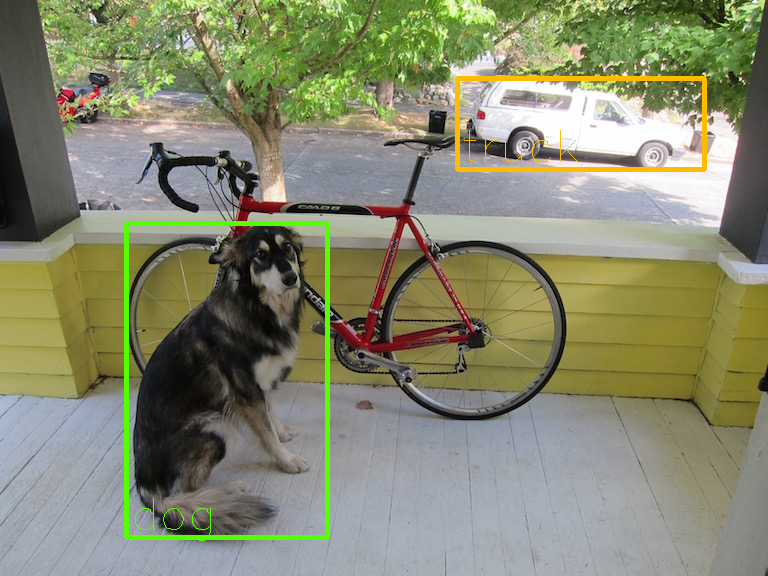
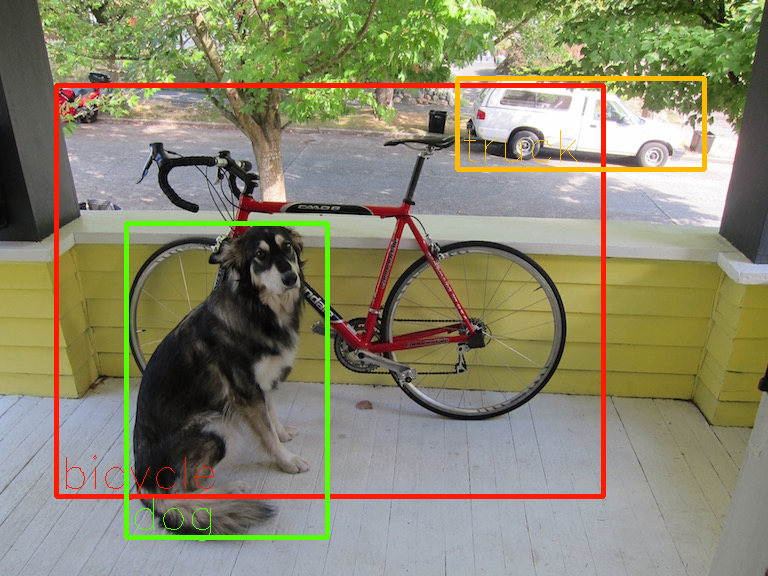
Update initial threshold

Changed region(s): [[0.0625, 0.125, 0.8125, 0.875]]

diff --git a/object_detection/yolov4-tiny/yolov4-tiny.py b/object_detection/yolov4-tiny/yolov4-tiny.py
@@ -40,7 +40,7 @@ COCO_CATEGORY = [
     "oven", "toaster", "sink", "refrigerator", "book", "clock", "vase",
     "scissors", "teddy bear", "hair drier", "toothbrush"
 ]
-THRESHOLD = 0.4
+THRESHOLD = 0.25
 IOU = 0.45
 IMAGE_HEIGHT = 416
 IMAGE_WIDTH = 416
